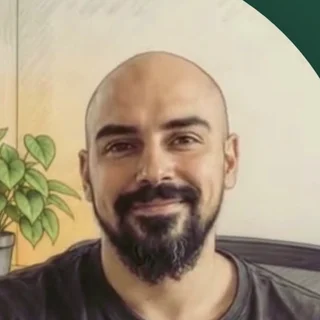
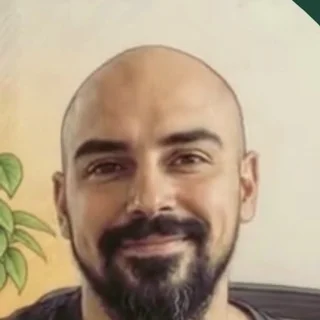
Foto final: más zoom en la cara de Marco

diff --git a/index.html b/index.html
@@ -268,7 +268,7 @@
       <h2 id="t-final">¿Hablamos de tu web?</h2>
       <div class="final__bloque">
       <div class="chat">
-        <img src="assets/img/marco-chat.webp?v=4" alt="Marco" width="72" height="72" loading="lazy">
+        <img src="assets/img/marco-chat.webp?v=5" alt="Marco" width="72" height="72" loading="lazy">
         <p class="burbuja">Escríbeme por WhatsApp y cuéntame qué negocio tienes. Te preparo tu web antes de pagar, sin compromiso.<strong>— Marco</strong></p>
       </div>
       <p class="final__cta"><a class="btn btn--lima" href="https://wa.me/34633548224?text=Hola%20Marco%2C%20me%20gustar%C3%ADa%20pedir%20la%20demo%20gratuita%20para%20mi%20negocio." target="_blank" rel="noopener"><svg viewBox="0 0 24 24" fill="none" stroke="currentColor" stroke-width="1.5" stroke-linecap="round" stroke-linejoin="round" aria-hidden="true"><path d="M17 12.5C17.2761 12.5 17.5 12.2761 17.5 12C17.5 11.7239 17.2761 11.5 17 11.5C16.7239 11.5 16.5 11.7239 16.5 12C16.5 12.2761 16.7239 12.5 17 12.5Z" fill="currentColor"/><path d="M12 12.5C12.2761 12.5 12.5 12.2761 12.5 12C12.5 11.7239 12.2761 11.5 12 11.5C11.7239 11.5 11.5 11.7239 11.5 12C11.5 12.2761 11.7239 12.5 12 12.5Z" fill="currentColor"/><path d="M7 12.5C7.27614 12.5 7.5 12.2761 7.5 12C7.5 11.7239 7.27614 11.5 7 11.5C6.72386 11.5 6.5 11.7239 6.5 12C6.5 12.2761 6.72386 12.5 7 12.5Z" fill="currentColor"/><path d="M12 22C17.5228 22 22 17.5228 22 12C22 6.47715 17.5228 2 12 2C6.47715 2 2 6.47715 2 12C2 13.8214 2.48697 15.5291 3.33782 17L2.5 21.5L7 20.6622C8.47087 21.513 10.1786 22 12 22Z"/></svg>Pedir mi demo gratis</a></p>
